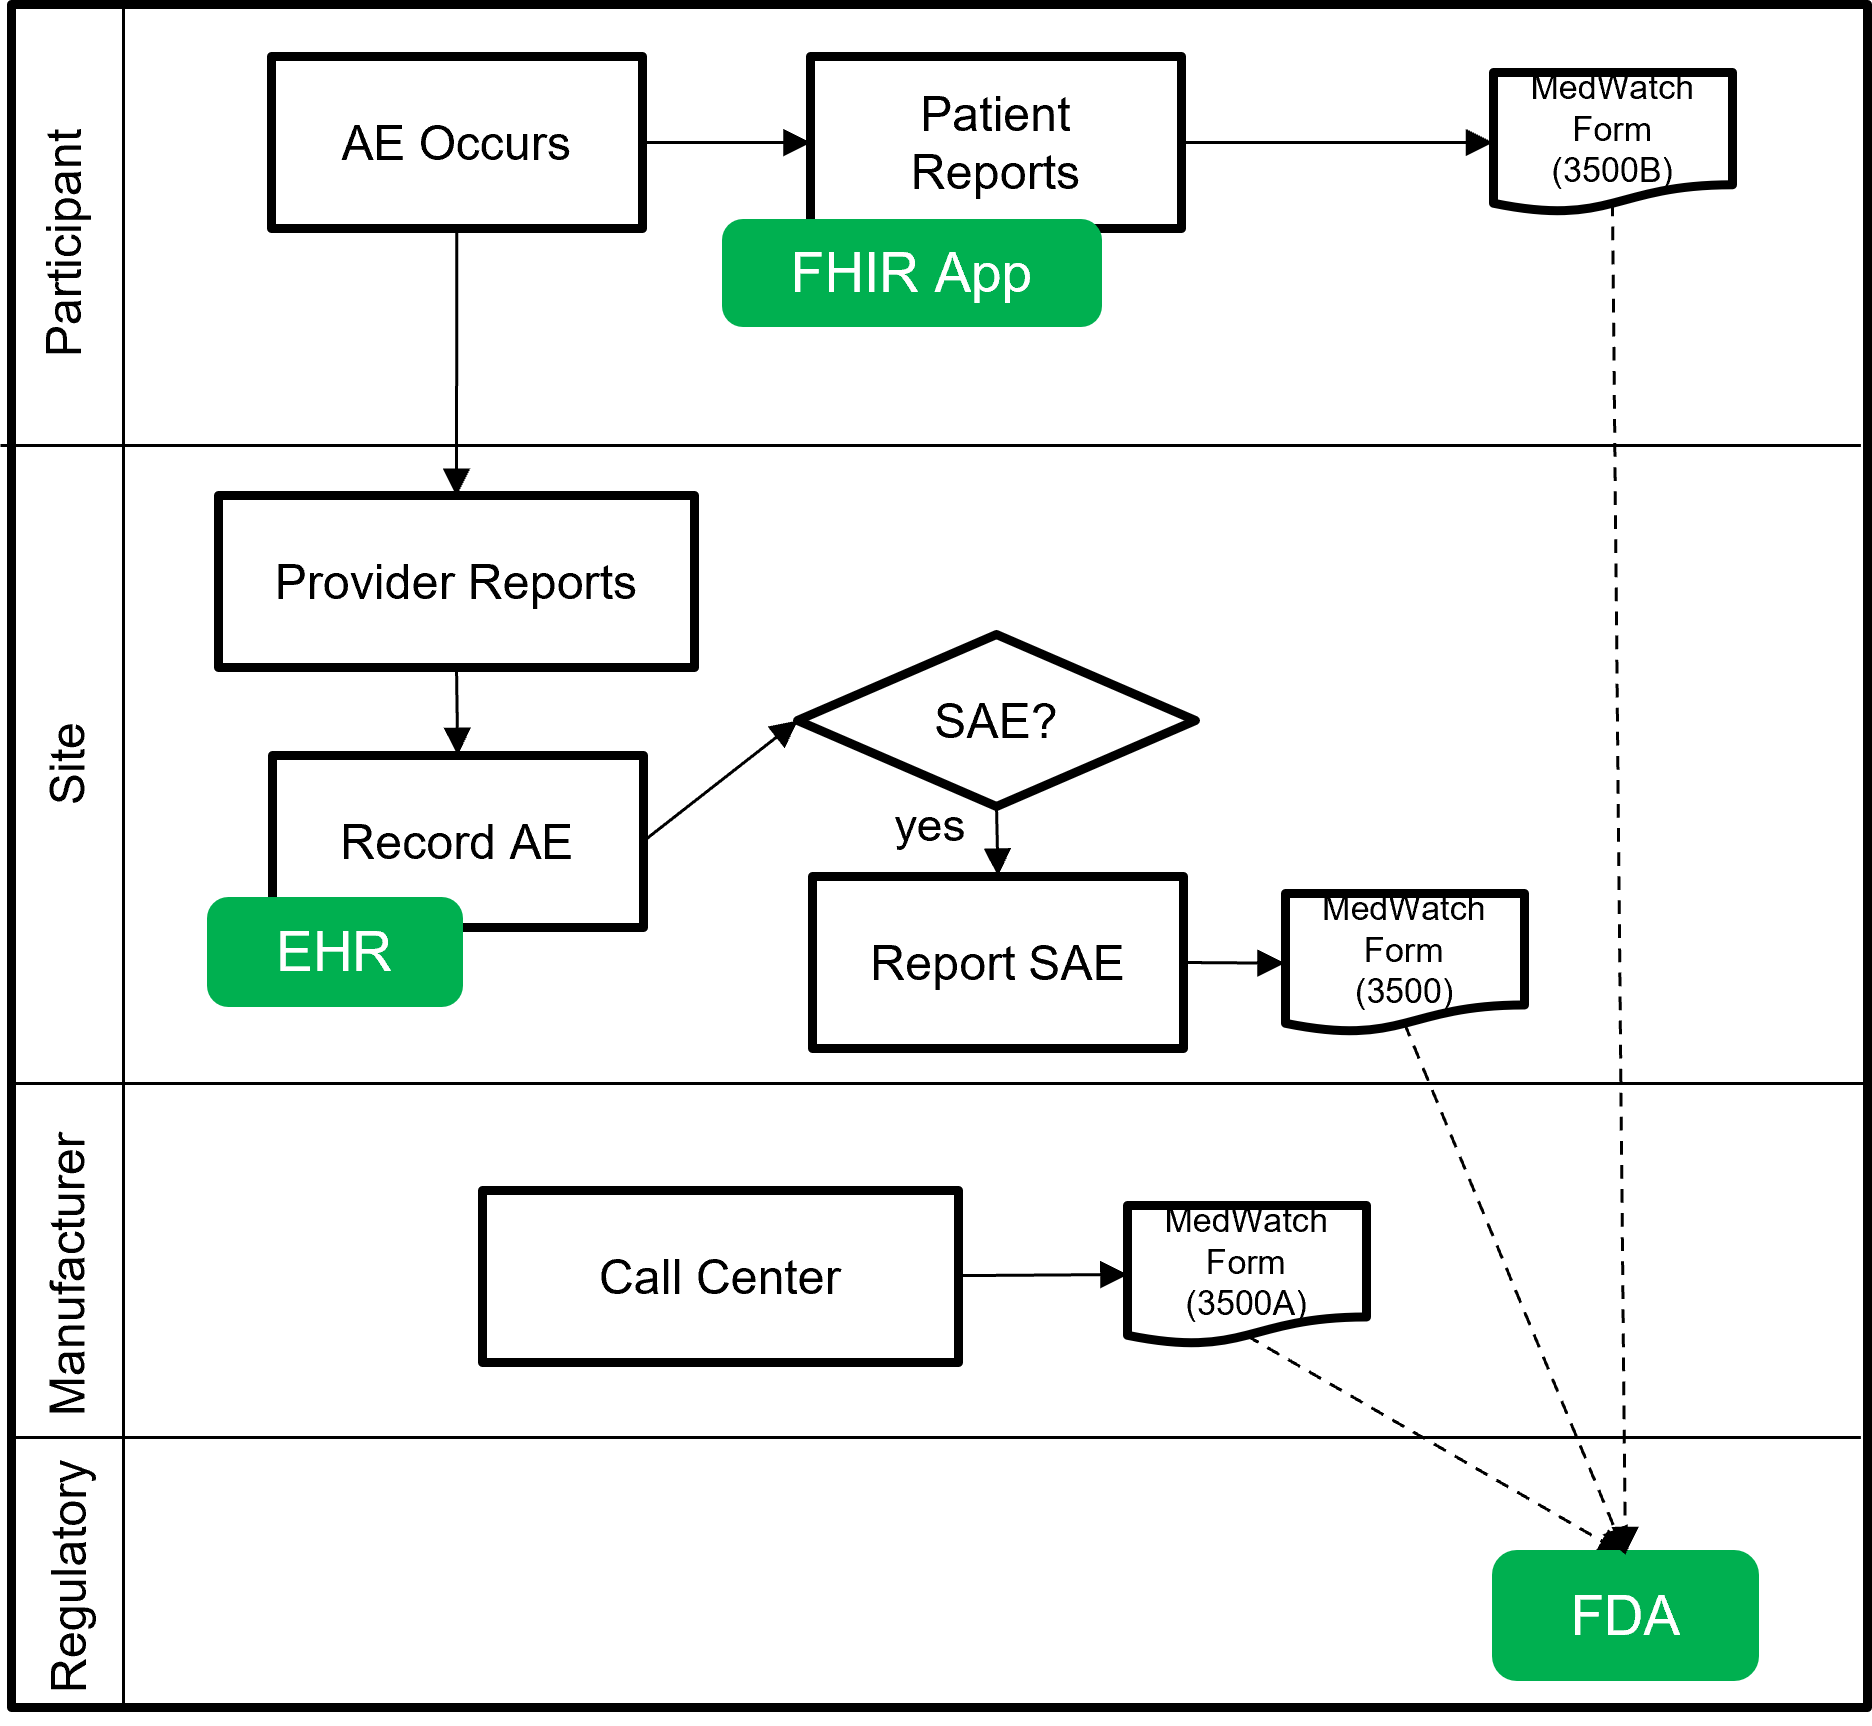
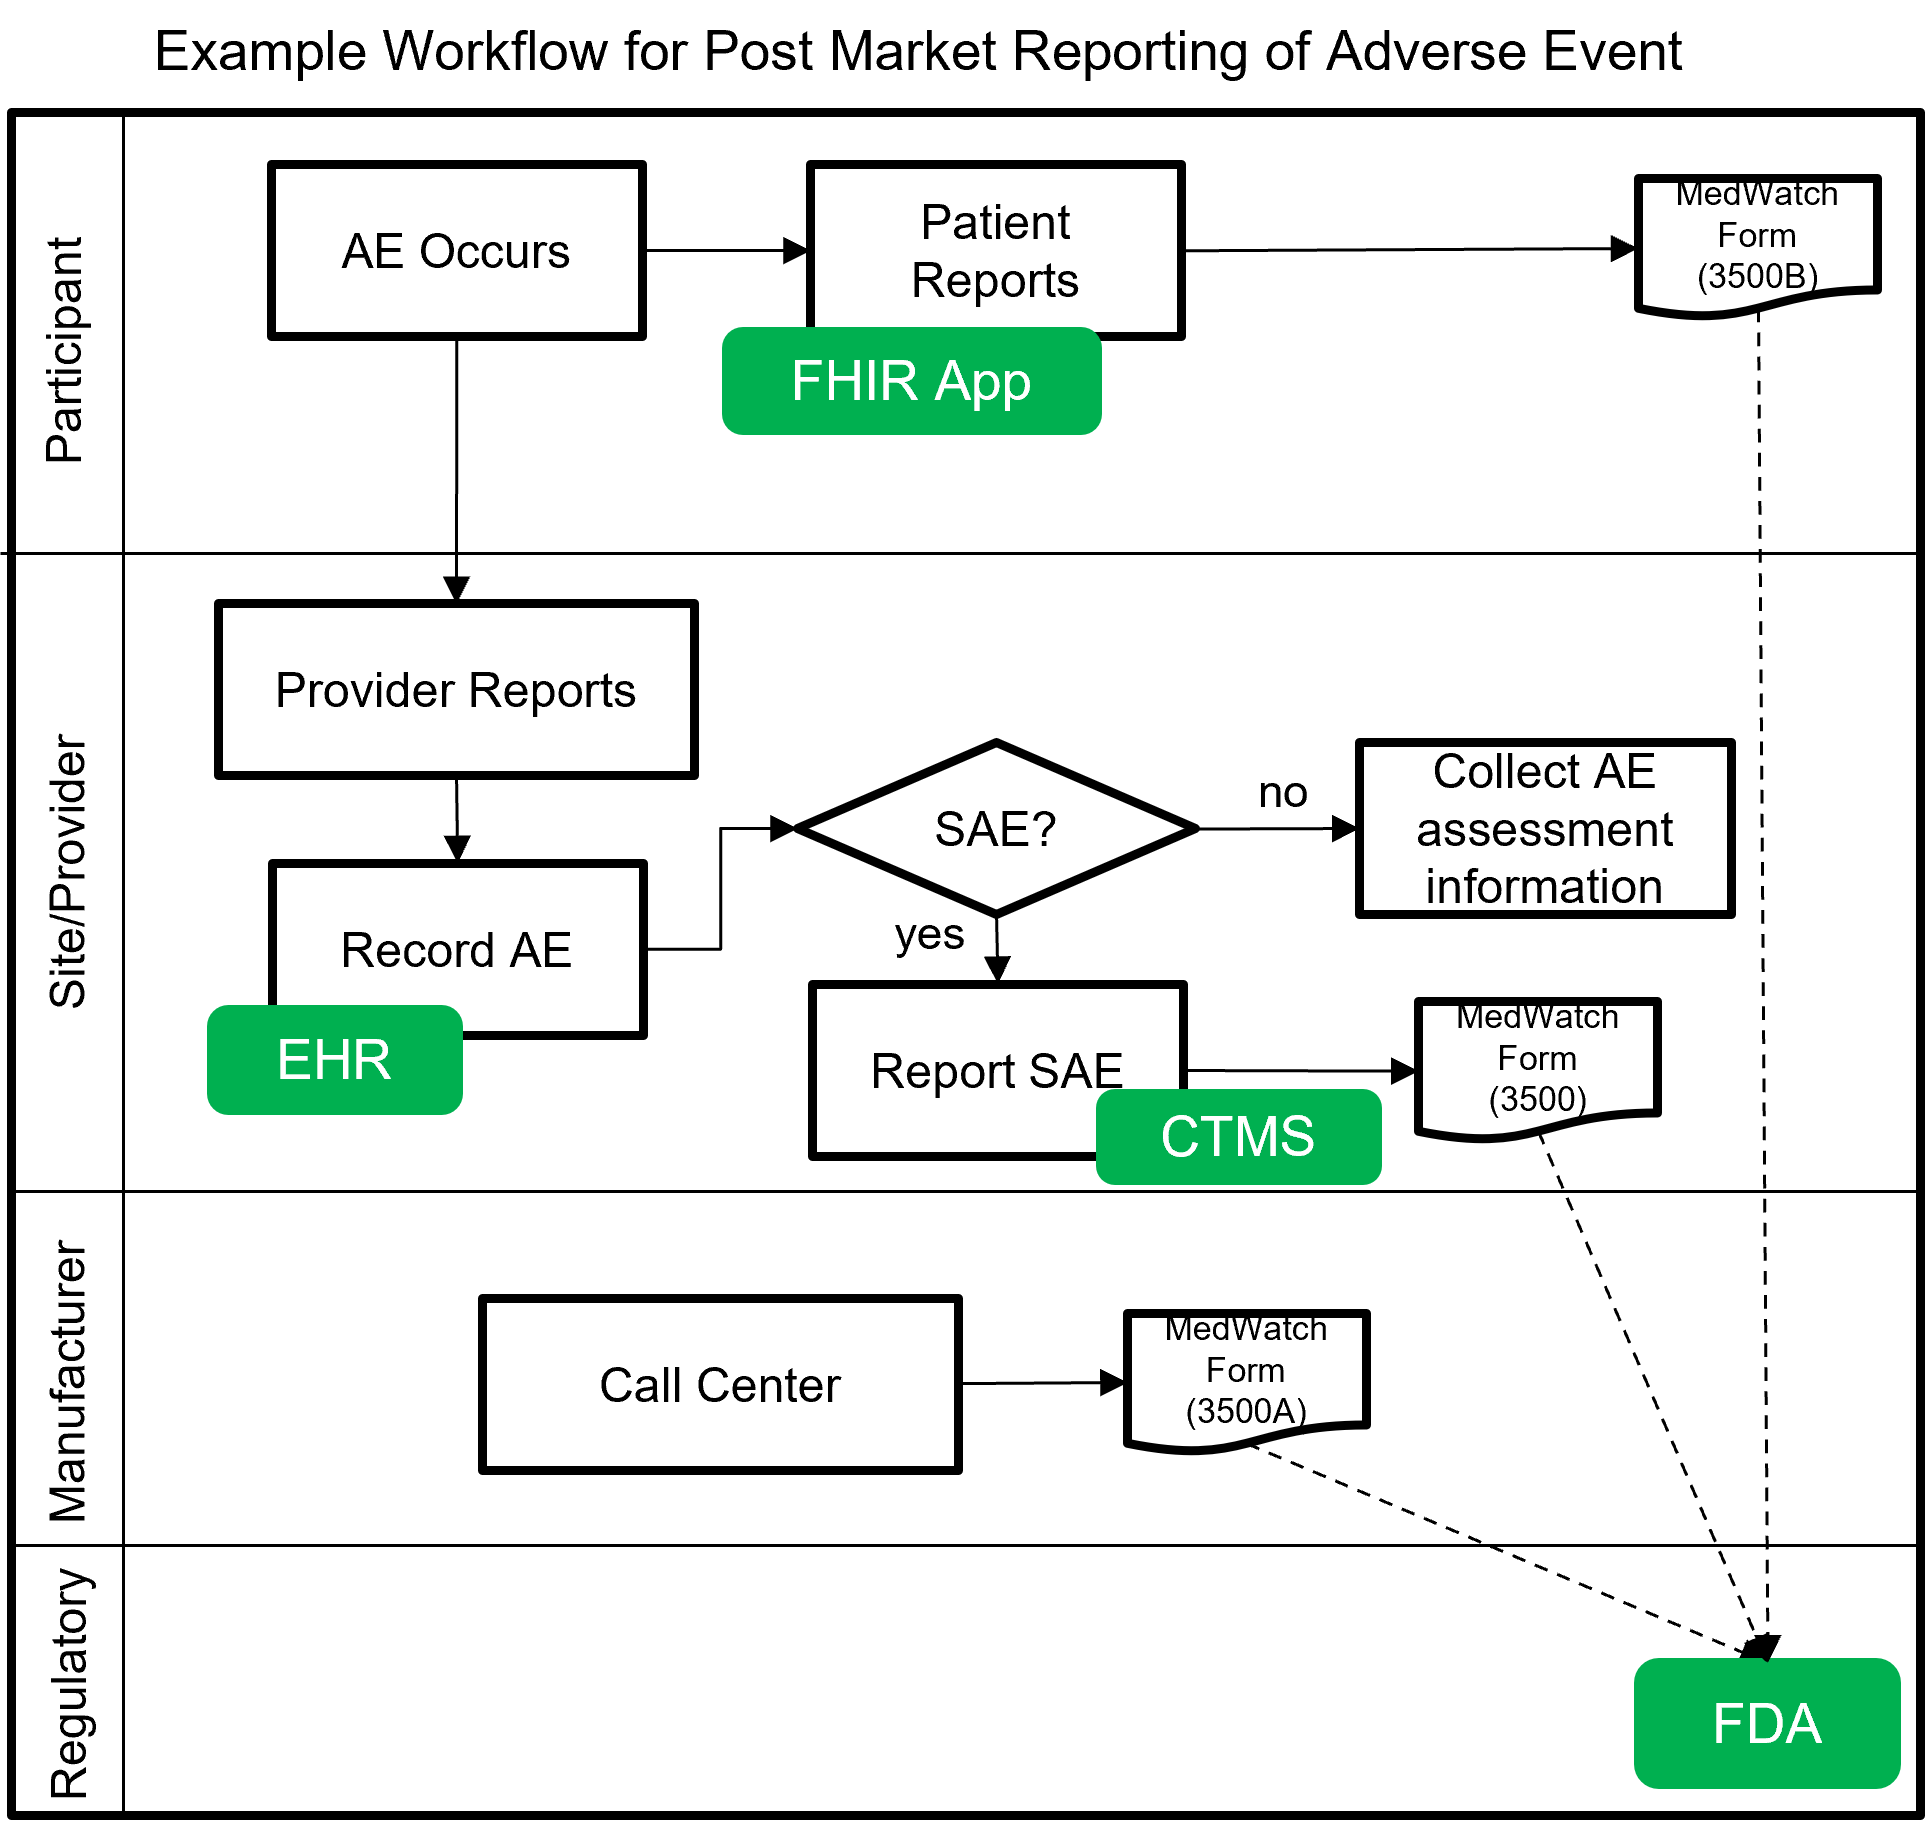
updates based on team feedback
updated background workflow graphics and content

diff --git a/input/pagecontent/background.md b/input/pagecontent/background.md
@@ -1,8 +1,8 @@
 ## Background
 
-Adverse Event (AE) data capture and standardization is a challenge. There are variations in the definitions, workflows, and data requirements across the use cases for patient monitoring, clinical intervention, regulatory safety reporting requirements and clinical trials monitoring.
+Adverse Event (AE) data capture and standardization is a challenge in real world data systems. There are variations in the definitions, workflows, and data requirements across the use cases for patient monitoring, clinical intervention, regulatory safety reporting requirements and clinical trials monitoring.
 
-The [Vulcan Adverse Event project](<https://confluence.hl7.org/display/VA/Adverse+Events>) was initiated in October 2021 to model the data elements to support the workflow for collecting and reporting serious and non-serious AEs in clinical research to meet the need of regulatory requirements. The goal of this project is to leverage Electronic Health Records (EHR) and other types of real-world data (RWD), such as Personal Health Record (PHR), as electronic source to collect adverse events that occur during clinical trials. In this project, the team leveraged the HL7 FHIR standard identifying gaps between data elements in EHRs, clinical research artifacts. and other existing standards such as:
+The [Vulcan Adverse Event project](<https://confluence.hl7.org/display/VA/Adverse+Events>) was initiated in October 2021 to model the data elements to support the workflow for collecting and reporting serious and non-serious AEs in clinical research to meet the need of regulatory requirements. The goal of this project is to leverage Electronic Health Records (EHR) and other types of real-world data (RWD), such as Personal Health Records (PHR), as electronic source to collect adverse events that occur during clinical trials. In this project, the team leveraged the HL7 FHIR standard identifying gaps between data elements in EHRs, clinical research artifacts. and other existing standards such as:
 
 * [FDA E2B(R3) Electronic Transmission of Individual Case Safety Reports Implementation Guide](<https://www.fda.gov/regulatory-information/search-fda-guidance-documents/e2br3-electronic-transmission-individual-case-safety-reports-implementation-guide-data-elements-and>)
 * [CDISC FHIR Mapping to AE](<http://hl7.org/fhir/uv/cdisc-mapping/ae.html>)
@@ -13,22 +13,22 @@ The [Vulcan Adverse Event project](<https://confluence.hl7.org/display/VA/Advers
 
 ## Workflow
 
-This IG will allow clinical trial AE representation in systems, including EHRs and PHRs, transmitted via FHIR to other systems; removing the need to transcribe AE data into secondary clinical trial management systems and improving efficiency for health authority reporting.
+This IG will allow clinical trial AE representation in systems, including EHRs and PHRs, transmitted via FHIR to other systems; removing the need to transcribe AE data into secondary clinical trial management systems and improving efficiency for health authority reporting. The following workflows are examples to demonstrate the potential use of this AE profile in the clinical research spectrum via FHIR.
 
 ### Pre-Market
 
-The following image shows the workflow for collecting and reporting serious adverse events (SAE) for pre-market clinical trials. The dotted line represents a future vision of data flow using FHIR which will most likely be covered by a separate MedWatch IG that builds upon this IG.
+The following image shows a notional workflow for collecting and reporting adverse events and serious adverse events (SAE) for pre-market clinical trials. The dotted line represents a future vision of data flow using FHIR which will most likely be covered by a separate MedWatch IG that builds upon this IG.
 
 <img src="ClinicalResearchAEScope-PreMarket.png" alt="Clinical Research AE Pre-Market" width="50%" style="float:none; margin: 0px 0px 0px 0px;" />
 
 Example scenarios: Pre-market clinical trial reporting of serious adverse events (SAE) using FHIR and utilized as part of clinical decision support actions within a clinical research trial setting.
 
-* Adverse event is captured in EHR by Clinical Investigator and sent to Clinical Trial Management System, then sent to Sponsor or FDA
-* Patient records adverse event that is sent to Clinical Investigator. If the event meets the reportable requirements the adverse event is then sent to Sponsor for review and then sent to FDA
+* Adverse event is captured in EHR by Clinical Investigator and sent to Clinical Trial Management System, then sent to Sponsor or FDA.
+* Patient records adverse event in a patient facing FHIR app that contains the MedWatch 3500B questionnaire. The data is sent from the patient FHIR app to the Clinical Investigator or Sponsor for inclusion in their reporting to the FDA.
 
 ### Post-Market
 
-The following image shows the workflow for collecting and reporting adverse events, post-market. The dotted line represents a future vision of data flow using FHIR which will most likely be covered by a separate MedWatch IG that builds upon this IG.
+The following image shows a notional workflow for collecting and reporting adverse events, post-market. The dotted line represents a future vision of data flow using FHIR which will most likely be covered by a separate MedWatch IG that builds upon this IG.
 
 <img src="ClinicalResearchAEScope-PostMarket.png" alt="Clinical Research AE Post-Market" width="50%" style="float:none; margin: 0px 0px 0px 0px;" />
 
